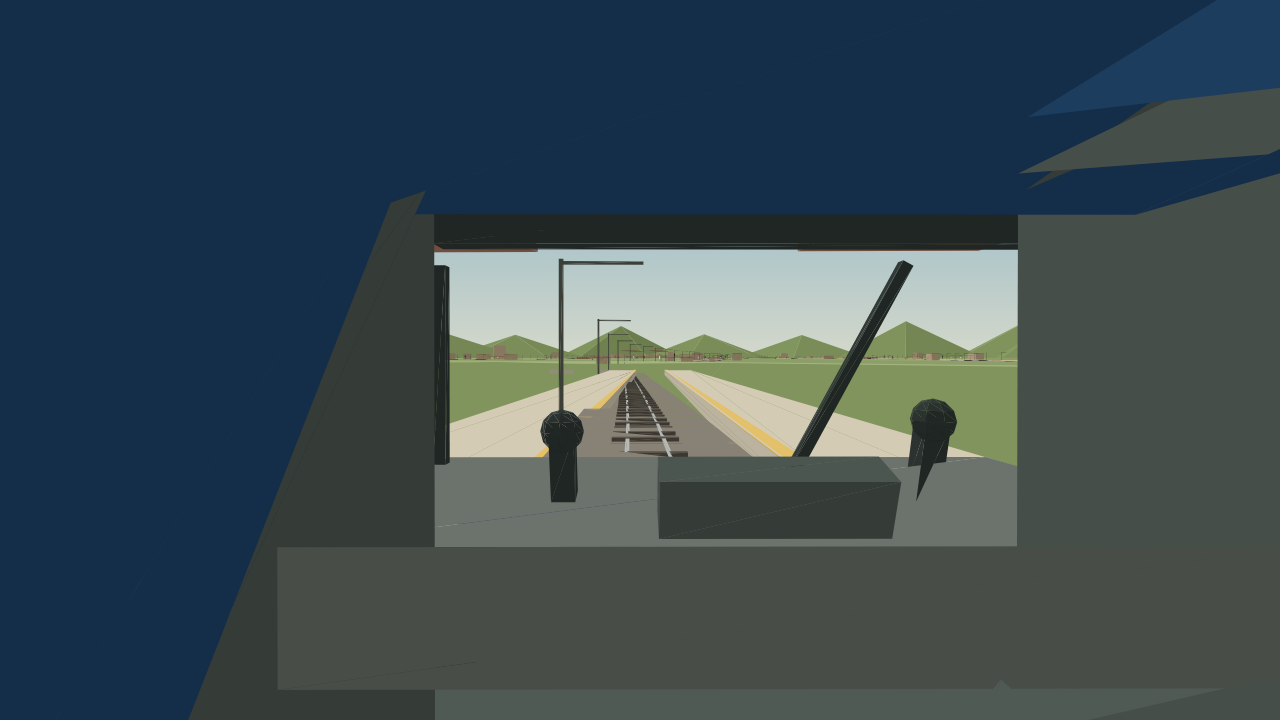
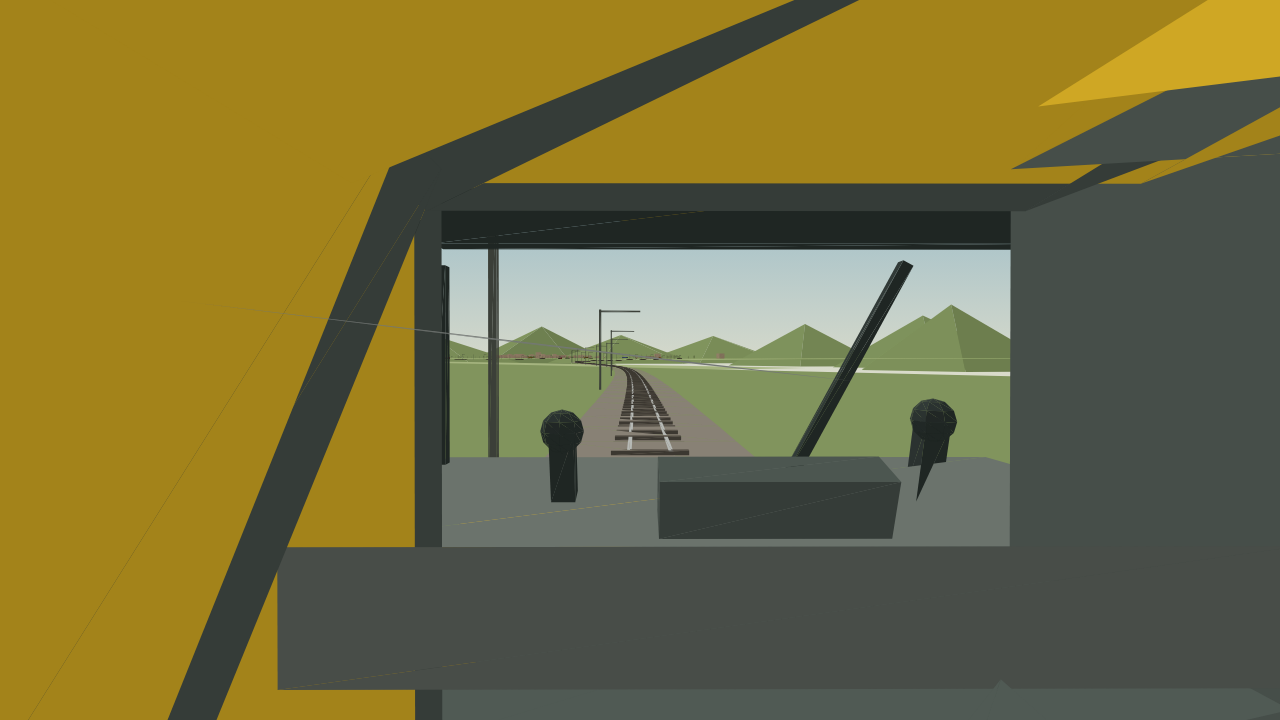
Mumbai locals wear the real yellow and violet
The reference photos make it plain: a Mumbai EMU is a yellow rake with a deep
violet band at window height, not a white body with blue doors.

- mumbai rolling.emu is now #f0c22c body / #5a2a86 band / grey roof, with a
  matching end and door colour
- suburban rakes carry their livery as a broad band AT window level (glass sits
  inside the band) instead of a thin lining stripe near the solebar
- the suburban cab end gets the band wrapped round the nose, a destination
  board and marker lamps
- the player's cab is painted in the rake's livery, with the band under the
  screen and a board on the header; outer skin is pushed clear of the interior
  lining so the two no longer z-fight
- test pins Mumbai at yellow/violet and asserts no two cities share a body or
  band colour (50 node + 27 python green)

diff --git a/src/scene3d.js b/src/scene3d.js
@@ -652,8 +652,17 @@ function buildTrain(scene, city, train, isPlayer = false) {
         put(ribs, i * 5 + k, 0, bodyY, z - len * 0.36 + (k * len * 0.72) / 4);
       }
     }
-    put(bands, i, 0, bodyY + 0.52, z);
-    put(stripes, i, 0, bodyY - 0.72, z);
+    // the dark window band is what the panes sit on. On an EMU the livery
+    // stripe already carries the band, so it is trimmed back to the glass
+    put(bands, i, 0, bodyY + 0.52, z, 1, style === 'emu' ? 0.8 : 1, 1);
+    // a suburban rake wears its colour as a broad band at window level (the
+    // violet stripe of a Mumbai EMU), so the glass sits inside the band;
+    // carriage stock keeps a thin lining stripe low down instead
+    if (style === 'emu') {
+      put(stripes, i, 0, bodyY + 0.38, z, 1, 5.2, 1);
+    } else {
+      put(stripes, i, 0, bodyY - 0.72, z);
+    }
     put(skirts, i, 0, 1.55, z);
 
     // doors: two per side, at the ends of the saloon
@@ -691,17 +700,30 @@ function buildTrain(scene, city, train, isPlayer = false) {
     // coach so the two read as a loco and a rake, not one long blue tube
     group.add(loco);
   } else if (!isPlayer) {
-    // the front of a suburban rake: a flat cab end with a screen
+    // the front of a suburban rake: a flat cab end with a screen, the band
+    // carried round the nose, a destination board and two marker lamps
     const nose = new THREE.Mesh(new THREE.BoxGeometry(2.9, 2.9, 1.2), livery.end);
     nose.position.set(0, 2.75, 0.5);
     group.add(nose);
+
     const screen = new THREE.Mesh(new THREE.BoxGeometry(2.4, 1.0, 0.14), livery.glass);
     screen.position.set(0, 3.5, 1.14);
     group.add(screen);
+
+    const band = new THREE.Mesh(new THREE.BoxGeometry(2.94, 0.42, 0.08), livery.stripe);
+    band.position.set(0, 2.63, 1.14);
+    group.add(band);
+    const board = new THREE.Mesh(
+      new THREE.BoxGeometry(1.85, 0.26, 0.06),
+      new THREE.MeshBasicMaterial({ color: '#eae5d2' }),
+    );
+    board.position.set(0, 4.05, 1.14);
+    group.add(board);
+
     const lampGeo = new THREE.SphereGeometry(0.16, 8, 6);
     for (const dx of [-0.9, 0.9]) {
       const lamp = new THREE.Mesh(lampGeo, livery.lamp);
-      lamp.position.set(dx, 1.7, 1.16);
+      lamp.position.set(dx, 1.62, 1.16);
       group.add(lamp);
     }
   }
@@ -738,7 +760,7 @@ export const CAB_EYE = { x: 0.42, y: 3.45, z: -1.35 };
  * lining inside it. Authored in the train group's local frame, whose origin is
  * the nose of the train on the railhead.
  */
-function buildCab(trainGroup, paint) {
+function buildCab(trainGroup, paint, accent) {
   const shell = new THREE.Group();
   shell.name = 'cab';
 
@@ -763,20 +785,20 @@ function buildCab(trainGroup, paint) {
   const headY = 4.18;
 
   // ---- outer shell (seen from outside, in loco paint) -----------------
-  add(new THREE.BoxGeometry(3.02, 0.22, 3.5), outer, 0, headY + 0.24, -0.25); // roof
-  add(new THREE.BoxGeometry(3.02, 0.55, 2.4), outer, 0, headY + 0.1, -0.4);    // roof over the cab
-  add(new THREE.BoxGeometry(3.0, 0.85, 0.5), outer, 0, sillY - 0.55, screenZ); // nose below the screen
-  add(new THREE.BoxGeometry(3.0, 0.6, 0.5), outer, 0, headY + 0.14, screenZ);  // header
+  add(new THREE.BoxGeometry(3.06, 0.2, 3.5), outer, 0, headY + 0.36, -0.25);   // roof skin
+  add(new THREE.BoxGeometry(3.06, 0.55, 2.4), outer, 0, headY + 0.22, -0.4);    // roof over the cab
+  add(new THREE.BoxGeometry(3.02, 0.85, 0.5), outer, 0, sillY - 0.55, screenZ); // nose below the screen
+  add(new THREE.BoxGeometry(3.02, 0.62, 0.5), outer, 0, headY + 0.22, screenZ);  // header
   for (const side of [-1, 1]) {
-    add(new THREE.BoxGeometry(0.12, 3.4, 3.2), outer, side * 1.5, 2.9, -0.3);  // sides
+    add(new THREE.BoxGeometry(0.08, 3.5, 3.2), outer, side * 1.53, 2.9, -0.3);  // side skin
   }
   add(new THREE.BoxGeometry(2.9, 0.14, 3.4), panel, 0, 1.72, -0.2);           // floor
 
   // ---- interior lining -------------------------------------------------
-  add(new THREE.BoxGeometry(2.86, 0.1, 3.1), panel, 0, headY + 0.12, -0.25);
+  add(new THREE.BoxGeometry(2.86, 0.1, 3.1), panel, 0, headY + 0.02, -0.25);
   for (const side of [-1, 1]) {
-    // the lining covers the whole wall, so the loco paint never shows inside
-    add(new THREE.BoxGeometry(0.07, 2.7, 3.2), panel, side * 1.43, 2.98, -0.3);
+    // the lining covers the whole wall, so the livery never shows inside
+    add(new THREE.BoxGeometry(0.08, 2.9, 3.2), panel, side * 1.4, 2.9, -0.3);
   }
 
   // ---- windscreen ------------------------------------------------------
@@ -798,6 +820,15 @@ function buildCab(trainGroup, paint) {
   add(new THREE.BoxGeometry(2.86, 0.4, 1.4), desk, 0, 2.72, 0.9);
   add(new THREE.BoxGeometry(2.82, 0.5, 0.3), panel, 0, 2.36, 1.16);
   add(new THREE.BoxGeometry(2.86, 0.7, 1.5), panel, 0, 2.1, 0.6);
+
+  // the livery wraps round the cab end, exactly as it does on the rake behind
+  if (accent) {
+    const board = new THREE.MeshBasicMaterial({ color: '#eae5d2' });
+    // under the screen, not across it: the band wraps the cab end at the
+    // same height it runs along the coaches
+    add(new THREE.BoxGeometry(3.0, 0.42, 0.06), accent, 0, 2.16, screenZ + 0.27);
+    add(new THREE.BoxGeometry(1.85, 0.26, 0.05), board, 0, 4.4, screenZ + 0.26);
+  }
   for (const [x, h] of [[-0.66, 0.3], [0.7, 0.26]]) {
     add(new THREE.BoxGeometry(0.09, h, 0.09), frame, x, 2.92 + h / 2, 0.72, -0.24, 0, 0);
     add(new THREE.SphereGeometry(0.08, 8, 6), frame, x, 2.92 + h, 0.68);
@@ -808,7 +839,7 @@ function buildCab(trainGroup, paint) {
   add(new THREE.BoxGeometry(0.28, 0.05, 0.4),
     new THREE.MeshBasicMaterial({ color: '#f6efd6', toneMapped: false }), 0, headY + 0.05, -0.7);
   for (const side of [-1, 1]) {
-    add(new THREE.PlaneGeometry(2.4, 0.62), glass, side * 1.29, 3.42, -0.25, 0, Math.PI / 2, 0);
+    add(new THREE.PlaneGeometry(2.4, 0.62), glass, side * 1.44, 3.42, -0.25, 0, Math.PI / 2, 0);
     add(new THREE.BoxGeometry(0.05, 0.8, 0.05), frame, side * 1.22, 3.42, 0.9);
     add(new THREE.BoxGeometry(0.09, 1.5, 0.4), outer, side * 1.44, 3.4, -1.5);
   }
@@ -847,10 +878,11 @@ export function buildWorld3D(world) {
     trainGroups.set(train.id, buildTrain(scene, world.city, train, train.id === world.playerId));
   }
   const playerTrain = world.trains.find((t) => t.id === world.playerId);
-  const paint = playerTrain && playerTrain.loco && LOCOS[playerTrain.loco]
-    ? mat(`${world.city.id}-loco-${playerTrain.loco}`, LOCOS[playerTrain.loco].body)
-    : stockMaterials(world.city, playerTrain?.stock || 'emu').body;
-  const cab = buildCab(trainGroups.get(world.playerId), paint);
+  const rake = stockMaterials(world.city, playerTrain?.stock || 'emu');
+  const loco = playerTrain && playerTrain.loco ? LOCOS[playerTrain.loco] : null;
+  const paint = loco ? mat(`${world.city.id}-loco-${playerTrain.loco}`, loco.body) : rake.body;
+  const accent = loco ? mat(`${world.city.id}-loco-${playerTrain.loco}-st`, loco.stripe) : rake.stripe;
+  const cab = buildCab(trainGroups.get(world.playerId), paint, accent);
   const signals = buildSignals(scene, world);
 
   // everything but the trains is static: freeze its matrices so the renderer

diff --git a/src/cities.js b/src/cities.js
@@ -15,7 +15,8 @@
 
 const ROLLING = {
   mumbai: {
-    emu: { body: '#e4e7e9', stripe: '#243b8f', roof: '#a6adb2', door: '#243b8f', end: '#f2c53d', trim: '#39474f' },
+    // the real Mumbai rake: yellow body, violet band under the windows, grey roof
+    emu: { body: '#f0c22c', stripe: '#5a2a86', roof: '#adb2ae', door: '#e6b526', end: '#f0c22c', trim: '#34393b' },
     icf: { body: '#f0e6cf', stripe: '#b8342a', roof: '#7d2a22', door: '#b8342a', end: '#b8342a', trim: '#5c2c26' },
     lhb: { body: '#25407c', stripe: '#eef2f8', roof: '#1b2f5c', door: '#25407c', end: '#25407c', trim: '#93a1b6' },
   },

diff --git a/README.md b/README.md
@@ -9,7 +9,7 @@ from any static server, offline.
 
 ```bash
 npm start     # http://localhost:5173
-npm test      # 49 node tests: cities, sim, 3D scene, headless app boot
+npm test      # 50 node tests: cities, sim, 3D scene, headless app boot
 python3 -m unittest discover -s test   # 27 tests for auth.py
 ```
 
@@ -17,10 +17,10 @@ python3 -m unittest discover -s test   # 27 tests for auth.py
 | --- | --- |
 | ![The picker](docs/menu.png) | ![Lines](docs/lines-mumbai.png) |
 | *Pick a city* | *Then the line you want to work* |
-| ![Drive menu](docs/services.png) | ![Chennai lineside](docs/lineside-chennai.png) |
-| *Then the trains on that line* | *Chennai — a nine-car local at a halt* |
+| ![Drive menu](docs/services.png) | ![Mumbai EMU](docs/lineside-mumbai-emu.png) |
+| *Then the trains on that line* | *Mumbai — a 12-car local in its yellow and violet* |
 | ![Mumbai cab](docs/cab-mumbai.png) | ![Kolkata chase](docs/chase-kolkata.png) |
-| *Mumbai — Western Line, from the cab* | *Kolkata — chase camera off the shoulder* |
+| *Mumbai — the local's cab, in its own paint* | *Kolkata — chase camera off the shoulder* |
 | ![Mumbai network](docs/network-mumbai.png) | |
 | *Mumbai — Western, Central and Harbour in one corridor* | |
 
@@ -48,8 +48,10 @@ belong to the line you're about to drive.
 | | MRTS | MRTS Local · MRTS Fast Local (EMU only) | — | — |
 
 **Three different machines, not three liveries.** A local is an EMU: flat cab
-end, four doors a side, white body with the city's band, quick away and 20–21
-m/s flat out. A passenger is a WAP-4 and ten cream ICF coaches: ribbed sides,
+end, four doors a side, a broad livery band running at window height, a
+destination board and marker lamps on the nose, quick away and 20–21 m/s flat
+out. Mumbai's rakes wear the real thing — yellow body, violet band, grey roof —
+and each other city keeps its own body and band colour. A passenger is a WAP-4 and ten cream ICF coaches: ribbed sides,
 slow off the mark, stops at every station. An express is a WAP-7 (a WAP-5 in
 Delhi) and 17–20 LHB coaches: sealed navy or maroon stock, 28–29 m/s, principal
 stops only. The MRTS is an EMU-only corridor, so its line offers a stopping
